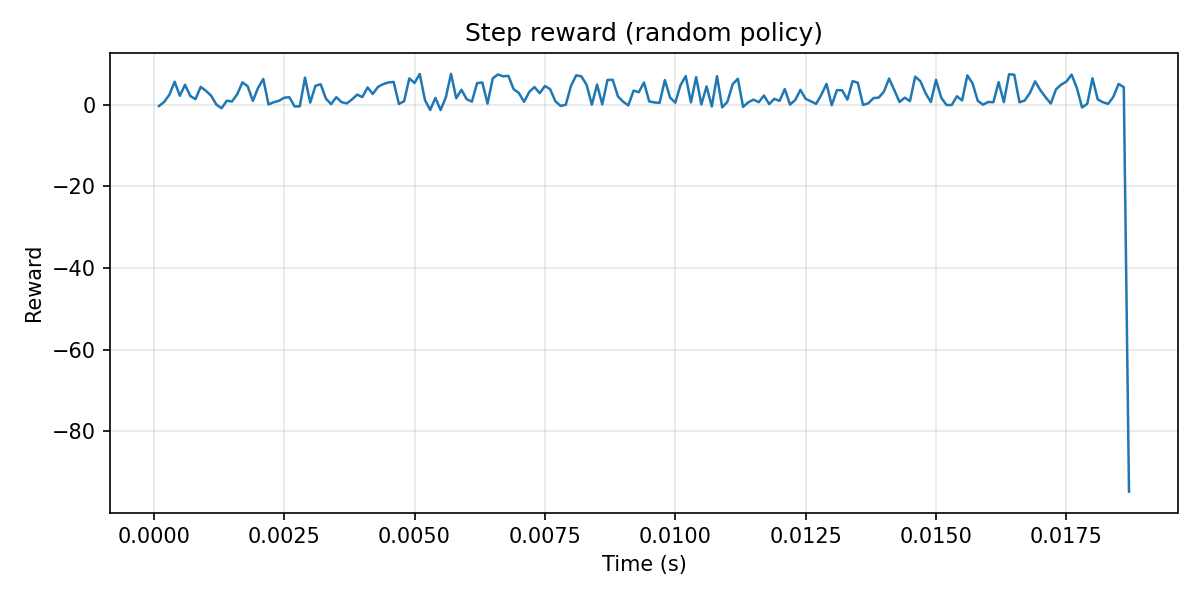
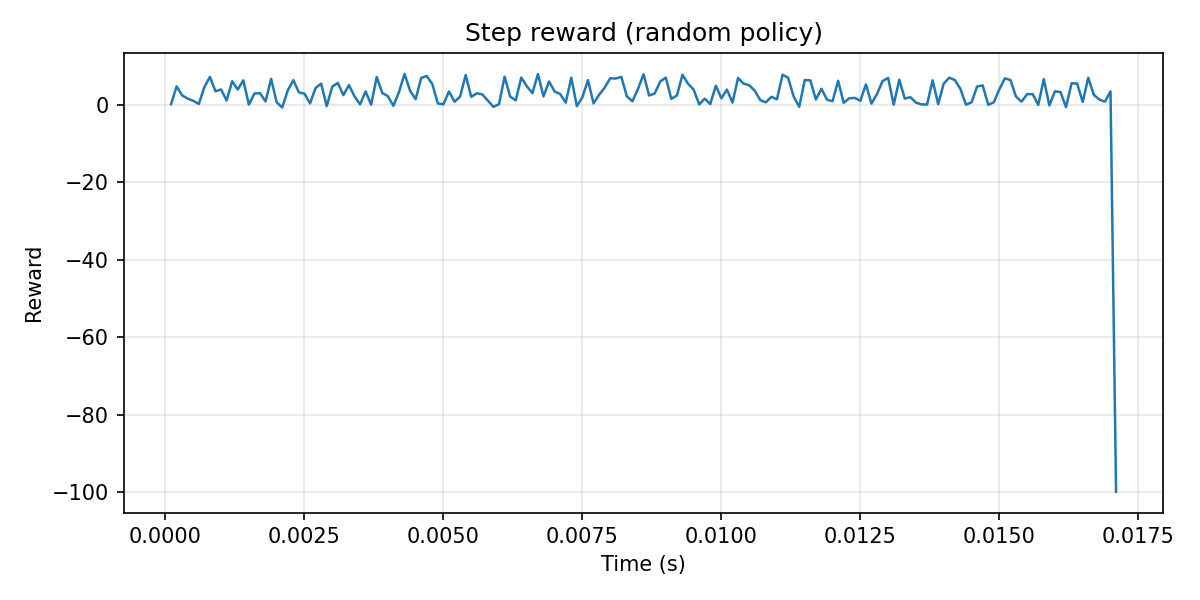
Implement accepted kinematics for face-milling dynamics
- Added support for accepted tool-path and spindle kinematics in ODEControlEnv and PlatePlant to maintain continuity during environment steps when omega changes.
- Introduced methods for beginning and ending steps in PlatePlant to synchronize kinematic states with the force module.
- Updated the face-milling model to utilize accepted kinematics, ensuring smooth transitions and accurate feed distance and spindle phase tracking.
- Enhanced the random policy check script to accommodate changes in axial depth of cut parameter handling.

diff --git a/custom_rl/plants/f_nonlinear2_face_milling.py b/custom_rl/plants/f_nonlinear2_face_milling.py
@@ -26,7 +26,7 @@ Implemented face-milling model
 ------------------------------
 For tooth i:
 
-    theta_i = omega*t + theta0 + (i-1)*2*pi/N
+    theta_i = theta_base(t) + theta0 + (i-1)*2*pi/N
     tau     = 2*pi/(N*omega)
 
     h_i = ft*sin(theta_i)
@@ -155,11 +155,29 @@ MIN_IMMERSION = 0.0
 _state_history = []              # sorted list of (t, x_copy)
 _MAX_HISTORY = 200000
 
+# Accepted tool-path/spindle kinematics for variable-omega RL control.
+# If disabled, the module falls back to the old constant-omega convention:
+#   x_c(t) = L1 - feed_rate(omega_current)*t - x0_cutter
+#   theta(t) = omega_current*t + theta0
+# PlatePlant enables this flag and updates the accepted feed distance and
+# spindle phase at the beginning/end of each environment step.
+USE_ACCEPTED_PATH_KINEMATICS = False
+_kinematic_history = []          # sorted list of (t, feed_distance_m, spindle_phase_rad)
+_KINEMATIC_TOL = 1e-14
+_kinematic_t0 = 0.0
+_kinematic_feed0_m = 0.0
+_kinematic_phase0_rad = 0.0
+
 
 def reset_state_history() -> None:
-    """Clear modal history. Call at the beginning of each episode/pass."""
+    """Clear modal and accepted-kinematic histories at episode/pass reset."""
     global _state_history, last_force_info
+    global _kinematic_history, _kinematic_t0, _kinematic_feed0_m, _kinematic_phase0_rad
     _state_history = []
+    _kinematic_history = []
+    _kinematic_t0 = 0.0
+    _kinematic_feed0_m = 0.0
+    _kinematic_phase0_rad = 0.0
     last_force_info = None
 
 
@@ -211,6 +229,125 @@ def _get_state_at_time(t_query: float) -> Optional[np.ndarray]:
     a = (t_query - t1) / (t2 - t1)
     return (1.0 - a) * x1 + a * x2
 
+
+
+# ============================================================
+# Accepted tool-path / spindle kinematic history
+# ============================================================
+
+
+def _append_kinematic_history(t: float, feed_distance_m: float, spindle_phase_rad: float) -> None:
+    """Append accepted feed distance and spindle phase for interpolation."""
+    global _kinematic_history
+    t = float(t)
+    entry = (t, float(feed_distance_m), float(spindle_phase_rad))
+
+    if len(_kinematic_history) == 0 or t >= _kinematic_history[-1][0]:
+        if len(_kinematic_history) > 0 and abs(_kinematic_history[-1][0] - t) < _KINEMATIC_TOL:
+            _kinematic_history[-1] = entry
+        else:
+            _kinematic_history.append(entry)
+    else:
+        times = [e[0] for e in _kinematic_history]
+        idx = bisect.bisect_left(times, t)
+        if idx < len(_kinematic_history) and abs(_kinematic_history[idx][0] - t) < _KINEMATIC_TOL:
+            _kinematic_history[idx] = entry
+        else:
+            _kinematic_history.insert(idx, entry)
+
+    if len(_kinematic_history) > _MAX_HISTORY:
+        _kinematic_history = _kinematic_history[-_MAX_HISTORY:]
+
+
+def set_accepted_kinematic_state(
+    t: float,
+    feed_distance_m: float,
+    spindle_phase_rad: float,
+    *,
+    append: bool = True,
+) -> None:
+    """Set accepted tool-path/spindle kinematics used by cutter_point().
+
+    Parameters
+    ----------
+    t:
+        Accepted time [s].
+    feed_distance_m:
+        Accumulated feed distance from the free side toward the clamped side [m].
+    spindle_phase_rad:
+        Accumulated spindle phase angle [rad]. This may be unbounded.
+    append:
+        If True, store the accepted kinematic state for delayed interpolation.
+    """
+    global _kinematic_t0, _kinematic_feed0_m, _kinematic_phase0_rad
+    _kinematic_t0 = float(t)
+    _kinematic_feed0_m = max(float(feed_distance_m), 0.0)
+    _kinematic_phase0_rad = float(spindle_phase_rad)
+    if append:
+        _append_kinematic_history(_kinematic_t0, _kinematic_feed0_m, _kinematic_phase0_rad)
+
+
+def _get_kinematic_at_time(t_query: float):
+    """Return (feed_distance_m, spindle_phase_rad) at t_query by interpolation."""
+    if len(_kinematic_history) == 0:
+        return None
+
+    t_query = float(t_query)
+    times = [entry[0] for entry in _kinematic_history]
+    idx = bisect.bisect_left(times, t_query)
+
+    if idx == 0:
+        if abs(times[0] - t_query) < _KINEMATIC_TOL:
+            return _kinematic_history[0][1], _kinematic_history[0][2]
+        return None
+
+    if idx == len(times):
+        # For queries after the last accepted point, the caller should normally
+        # propagate from the current accepted state using the current held omega.
+        return _kinematic_history[-1][1], _kinematic_history[-1][2]
+
+    t1, feed1, phase1 = _kinematic_history[idx - 1]
+    t2, feed2, phase2 = _kinematic_history[idx]
+    if abs(t2 - t1) < _KINEMATIC_TOL:
+        return feed1, phase1
+
+    a = (t_query - t1) / (t2 - t1)
+    feed = (1.0 - a) * feed1 + a * feed2
+    phase = (1.0 - a) * phase1 + a * phase2
+    return float(feed), float(phase)
+
+
+def feed_phase_at_time(t: float, omega_rad_s: float) -> Tuple[float, float]:
+    """Return accumulated feed distance [m] and spindle phase [rad] at time t.
+
+    With USE_ACCEPTED_PATH_KINEMATICS=True, past times are interpolated from
+    accepted kinematic history and current RK-stage times are propagated from
+    the last accepted state. This avoids artificial jumps when the RL action
+    changes omega between environment steps.
+    """
+    t = float(t)
+    omega_rad_s = max(float(omega_rad_s), OMEGA_EPS)
+
+    if not USE_ACCEPTED_PATH_KINEMATICS:
+        return feed_rate_m_s(omega_rad_s) * max(t, 0.0), omega_rad_s * max(t, 0.0)
+
+    if t >= _kinematic_t0 - _KINEMATIC_TOL:
+        dt_local = max(t - _kinematic_t0, 0.0)
+        feed = _kinematic_feed0_m + feed_rate_m_s(omega_rad_s) * dt_local
+        phase = _kinematic_phase0_rad + omega_rad_s * dt_local
+        return float(feed), float(phase)
+
+    past = _get_kinematic_at_time(max(t, 0.0))
+    if past is not None:
+        return past
+
+    return 0.0, 0.0
+
+
+def spindle_phase(t: float, omega_rad_s: float) -> float:
+    """Return accumulated spindle phase [rad] at time t."""
+    _, phase = feed_phase_at_time(t, omega_rad_s)
+    return float(phase)
 
 # ============================================================
 # Debug information from the last force calculation
@@ -408,11 +545,12 @@ def cutter_point(t: float, omega_rad_s: float) -> Tuple[float, float]:
     """
     Nominal tool-center/contact point for force projection [m].
 
-    The default path starts near x=L1 and feeds toward x=0. Change this function
-    if the face-milling pass in your model follows another path.
+    The path starts at the free side x=L1 and feeds toward the clamped side x=0.
+    With accepted kinematics enabled, accumulated feed distance is continuous
+    when omega changes between RL steps.
     """
-    feed_dist = feed_rate_m_s(omega_rad_s) * max(float(t), 0.0)
-    xc = float(L1) - (feed_dist + float(x0_cutter))
+    feed_dist, _ = feed_phase_at_time(t, omega_rad_s)
+    xc = float(L1) - (float(feed_dist) + float(x0_cutter))
     xc = float(np.clip(xc, 0.0, float(L1)))
     yc = float(y_cutter)
     return xc, yc
@@ -553,6 +691,7 @@ def compute_face_milling_force(t: float, x_modal: np.ndarray, x_delay_modal: np.
     rel_vel_now = relative_velocity_mm_s(x_modal, xc, yc)
 
     phi_pitch = 2.0 * np.pi / float(N)
+    theta_base = spindle_phase(t, omega_rad_s) + float(theta0)
     theta_values = np.zeros(int(N), dtype=np.float64)
     engagement = np.zeros(int(N), dtype=bool)
     chip_raw = np.zeros(int(N), dtype=np.float64)
@@ -564,7 +703,7 @@ def compute_face_milling_force(t: float, x_modal: np.ndarray, x_delay_modal: np.
     sin_gL = np.sin(float(gamma_L))
 
     for i in range(int(N)):
-        theta = (omega_rad_s * t + float(theta0) + i * phi_pitch) % (2.0 * np.pi)
+        theta = (theta_base + i * phi_pitch) % (2.0 * np.pi)
         theta_values[i] = theta
 
         is_engaged = _engaged(theta, theta_s, theta_e)

diff --git a/custom_rl/plants/plate.py b/custom_rl/plants/plate.py
@@ -325,6 +325,15 @@ class PlatePlant(ODEPlant):
         self._last_ac = self._last_ap  # compatibility alias for old diagnostics
         self._last_ae = float(self.ae_default)
 
+        # Accepted pass kinematics. The modal state remains unchanged; these
+        # variables only keep the cutter x-position and spindle phase continuous
+        # when omega changes between RL steps.
+        self._feed_distance_m = 0.0
+        self._spindle_phase_rad = 0.0
+        self._kinematic_step_t0 = 0.0
+        self._kinematic_step_feed0_m = 0.0
+        self._kinematic_step_phase0_rad = 0.0
+
         self.dynamics_uncertainty_std = float(max(dynamics_uncertainty_std, 0.0))
         self.y0_min = float(y0_min)
         self.y0_max = float(y0_max)
@@ -497,6 +506,11 @@ class PlatePlant(ODEPlant):
         f_nonlinear2.USE_DELAYED_CUTTER_POSITION_FOR_REGEN = True
         f_nonlinear2.EDGE_FORCE_WHEN_ZERO_CHIP = False
 
+        # Use accepted feed distance/spindle phase rather than omega*t. This is
+        # important when the RL policy changes omega during an episode.
+        if hasattr(f_nonlinear2, "USE_ACCEPTED_PATH_KINEMATICS"):
+            f_nonlinear2.USE_ACCEPTED_PATH_KINEMATICS = True
+
     def _sync_face_milling_geometry(self) -> None:
         """Synchronize pass-line geometry with the force module."""
         f_nonlinear2.y_cutter = self.y_cutter
@@ -518,6 +532,59 @@ class PlatePlant(ODEPlant):
     def bind_rng(self, rng: np.random.Generator) -> None:
         """Bind Gymnasium RNG for random y-line and model uncertainty."""
         self._rng = rng
+
+    # ------------------------------------------------------------------
+    # Accepted cutter-path / spindle kinematics
+    # ------------------------------------------------------------------
+    def _feed_rate_from_omega(self, omega_rad_s: float) -> float:
+        """Return table/feed speed [m/s] from feed per tooth and spindle speed."""
+        omega_rad_s = max(float(omega_rad_s), 1e-12)
+        return (self.feed_per_tooth_mm / 1000.0) * self.N * omega_rad_s / (2.0 * np.pi)
+
+    def _sync_accepted_kinematics_to_force_module(self, t: float, *, append: bool = True) -> None:
+        """Push accepted feed distance and spindle phase into the force module."""
+        if hasattr(f_nonlinear2, "set_accepted_kinematic_state"):
+            f_nonlinear2.set_accepted_kinematic_state(
+                float(t),
+                float(self._feed_distance_m),
+                float(self._spindle_phase_rad),
+                append=append,
+            )
+
+    def begin_step(self, t: float, u: np.ndarray) -> None:
+        """Prepare continuous path/phase kinematics before RK integration.
+
+        ODEControlEnv calls this once per accepted environment step. The action
+        is still held constant during the RK substeps, but the cutter position
+        and tooth phase are propagated from the last accepted values instead of
+        recomputing them as omega*t from the start of the episode.
+        """
+        u_phys = self._scale_action(u)
+        self._last_omega = float(u_phys[0])
+        self._last_ap = float(u_phys[1])
+        self._last_ac = self._last_ap
+        self._last_ae = float(u_phys[2]) if self.control_ae else self.ae_default
+
+        self._kinematic_step_t0 = float(t)
+        self._kinematic_step_feed0_m = float(self._feed_distance_m)
+        self._kinematic_step_phase0_rad = float(self._spindle_phase_rad)
+        self._sync_accepted_kinematics_to_force_module(float(t), append=True)
+
+    def end_step(self, t: float, u: np.ndarray) -> None:
+        """Commit accepted cutter feed distance and spindle phase after integration."""
+        u_phys = self._scale_action(u)
+        omega = float(u_phys[0])
+        dt_step = max(float(t) - float(self._kinematic_step_t0), 0.0)
+
+        self._feed_distance_m = self._kinematic_step_feed0_m + self._feed_rate_from_omega(omega) * dt_step
+        self._feed_distance_m = float(np.clip(self._feed_distance_m, 0.0, self.L1 + abs(self.x0_cutter)))
+        self._spindle_phase_rad = self._kinematic_step_phase0_rad + omega * dt_step
+
+        self._last_omega = omega
+        self._last_ap = float(u_phys[1])
+        self._last_ac = self._last_ap
+        self._last_ae = float(u_phys[2]) if self.control_ae else self.ae_default
+        self._sync_accepted_kinematics_to_force_module(float(t), append=True)
 
     # ------------------------------------------------------------------
     # Observation wrapper: modal -> physical displacement/velocity
@@ -629,6 +696,12 @@ class PlatePlant(ODEPlant):
         self._last_ap = float(self.ap_min)
         self._last_ac = self._last_ap  # compatibility alias for old diagnostics
         self._last_ae = float(self.ae_default)
+        self._feed_distance_m = 0.0
+        self._spindle_phase_rad = 0.0
+        self._kinematic_step_t0 = 0.0
+        self._kinematic_step_feed0_m = 0.0
+        self._kinematic_step_phase0_rad = 0.0
+        self._sync_accepted_kinematics_to_force_module(0.0, append=True)
 
         x0 = np.zeros(self.state_dim, dtype=np.float64)
         if self.initial_eta_std > 0.0:
@@ -641,6 +714,8 @@ class PlatePlant(ODEPlant):
             "x_start": float(self.L1 - self.x0_cutter),
             "x_end": 0.0,
             "path_direction": "x=L1 free side -> x=0 clamped side",
+            "feed_distance_m": float(self._feed_distance_m),
+            "spindle_phase_rad": float(self._spindle_phase_rad),
             "rho_interpreted_as": self.rho_interpreted_as,
         }
         return x0, info
@@ -666,6 +741,8 @@ class PlatePlant(ODEPlant):
         info["cutter_x"] = float(cutter_x)
         info["cutter_y"] = float(cutter_y)
         info["feed_progress"] = float(1.0 - cutter_x / max(self.L1, 1e-12))
+        info["feed_distance_m"] = float(self._feed_distance_m)
+        info["spindle_phase_rad"] = float(self._spindle_phase_rad)
         info["omega_rad_s"] = float(self._last_omega)
         info["omega_rpm"] = float(omega_to_rpm(self._last_omega))
         info["ap_mm"] = float(self._last_ap)

diff --git a/custom_rl/envs/ode_control_env.py b/custom_rl/envs/ode_control_env.py
@@ -242,6 +242,12 @@ class ODEControlEnv(gym.Env):
         x_prev = self._state.copy()
         t_prev = float(self._t)
 
+        # Optional plant hook for accepted-step kinematics. Face-milling PlatePlant
+        # uses this to keep cutter feed distance and spindle phase continuous when
+        # omega changes between environment steps.
+        if hasattr(self.plant, "begin_step"):
+            self.plant.begin_step(t_prev, action)
+
         self._state = integrate(
             self.plant.dynamics,
             self._t,
@@ -263,6 +269,9 @@ class ODEControlEnv(gym.Env):
                 * self.np_random.standard_normal(self._state.shape)
             )
             self._replace_last_history_state(history_module, self._t, self._state)
+
+        if hasattr(self.plant, "end_step"):
+            self.plant.end_step(self._t, action)
 
         self._step_count += 1
 

diff --git a/scripts/check_plate_random_policy.py b/scripts/check_plate_random_policy.py
@@ -359,7 +359,7 @@ def main() -> None:
     parser.add_argument("--fixed-action", action="store_true", help="Use constant omega/ap.")
     parser.add_argument("--rpm", type=float, default=1000.0, help="Spindle speed [rpm] for --fixed-action.")
     parser.add_argument("--omega", type=float, default=None, help="Optional spindle speed [rad/s] instead of --rpm.")
-    parser.add_argument("--ap", type=float, default=0.05, help="Axial depth of cut ap [mm] for --fixed-action.")
+    parser.add_argument("--ap", type=float, default=0, help="Axial depth of cut ap [mm] for --fixed-action.")
     parser.add_argument("--ae", type=float, default=None, help="Optional radial immersion ae [mm] if control_ae=True.")
     parser.add_argument("--control-ae", action="store_true", help="Use 3D action [omega, ap, ae].")
     parser.add_argument(
